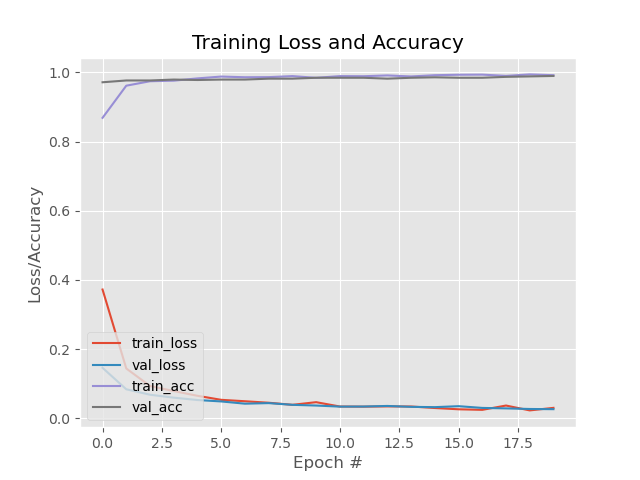
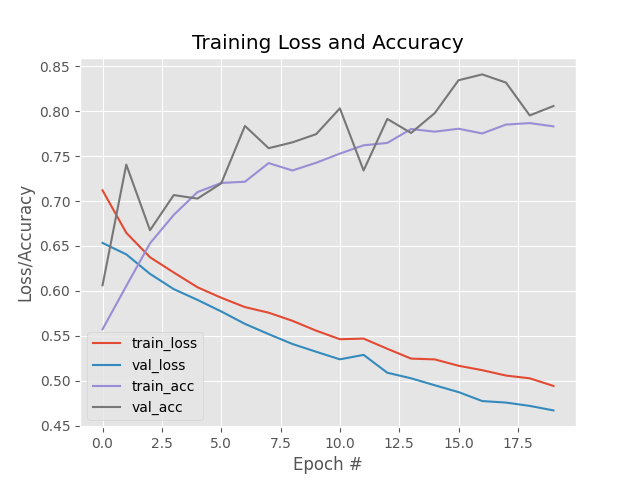
New Resnetv50 Model

diff --git a/inceptionv3.py b/inceptionv3.py
@@ -1,0 +1,106 @@
+from tensorflow.keras.preprocessing.image import ImageDataGenerator
+from tensorflow.keras.applications.inception_v3 import InceptionV3
+from tensorflow.keras.layers import AveragePooling2D
+from tensorflow.keras.layers import Dropout
+from tensorflow.keras.layers import Flatten
+from tensorflow.keras.layers import Dense
+from tensorflow.keras.layers import Input
+from tensorflow.keras.models import Model
+from tensorflow.keras.optimizers import Adam
+from tensorflow.keras.applications.mobilenet_v2 import preprocess_input
+from tensorflow.keras.preprocessing.image import img_to_array
+from tensorflow.keras.preprocessing.image import load_img
+from tensorflow.keras.utils import to_categorical
+from sklearn.preprocessing import LabelBinarizer
+from sklearn.model_selection import train_test_split
+from sklearn.metrics import classification_report
+from imutils import paths
+import matplotlib.pyplot as plt
+import numpy as np
+import os
+
+INIT_LR = 1e-4
+EPOCHS = 20
+BS = 32
+
+DIRECTORY = r"D:\Projects\Mask_detection\dataset"
+CATEGORIES = ["with_mask", "without_mask"]
+
+print("Loading Image from Directory")
+
+data =[]
+labels = []
+
+for category in CATEGORIES:
+    path = os.path.join(DIRECTORY, category)
+    for img in os.listdir(path):
+        img_path = os.path.join(path,img)
+        image = load_img(img_path, target_size=(224,224))
+        image = img_to_array(image)
+        image = preprocess_input(image)
+        data.append(image)
+        labels.append(category)
+        
+lb = LabelBinarizer()
+labels = lb.fit_transform(labels)
+labels = to_categorical(labels)
+
+data = np.array(data, dtype="float32")
+labels = np.array(labels)
+
+(xtrain, xtest, ytrain, ytest) = train_test_split(data, labels, test_size = 0.20, stratify = labels, random_state = 101)
+
+aug = ImageDataGenerator(rotation_range = 20, zoom_range = 0.15, width_shift_range= 0.2, height_shift_range=0.2, shear_range=0.15, horizontal_flip=True, fill_mode="nearest")
+
+baseModel = InceptionV3(weights="imagenet", include_top=False,
+	input_tensor=Input(shape=(224, 224, 3)))
+
+
+headModel = baseModel.output
+headModel = AveragePooling2D(pool_size=(7, 7))(headModel)
+headModel = Flatten(name="flatten")(headModel)
+headModel = Dense(128, activation="relu")(headModel)
+headModel = Dropout(0.5)(headModel)
+headModel = Dense(2, activation="softmax")(headModel)
+
+model = Model(inputs=baseModel.input, outputs=headModel)
+
+for layer in baseModel.layers:
+	layer.trainable = False
+
+print("[INFO] compiling model...")
+opt = Adam(lr=INIT_LR, decay=INIT_LR / EPOCHS)
+model.compile(loss="binary_crossentropy", optimizer=opt,
+	metrics=["accuracy"])
+print("[INFO] training head...")
+H = model.fit(
+	aug.flow(xtrain, ytrain, batch_size=BS),
+	steps_per_epoch=len(xtrain) // BS,
+	validation_data=(xtest, ytest),
+	validation_steps=len(xtest) // BS,
+	epochs=EPOCHS)
+
+print("[INFO] evaluating network...")
+predIdxs = model.predict(xtest, batch_size=BS)
+
+predIdxs = np.argmax(predIdxs, axis=1)
+
+print(classification_report(ytest.argmax(axis=1), predIdxs, target_names=lb.classes_))
+
+#print("[INFO] saving mask detector model...")
+#model.save("mask_detector.model", save_format="h5")
+
+N = EPOCHS
+plt.style.use("ggplot")
+plt.figure()
+plt.plot(np.arange(0, N), H.history["loss"], label="train_loss")
+plt.plot(np.arange(0, N), H.history["val_loss"], label="val_loss")
+plt.plot(np.arange(0, N), H.history["accuracy"], label="train_acc")
+plt.plot(np.arange(0, N), H.history["val_accuracy"], label="val_acc")
+plt.title("Training Loss and Accuracy")
+plt.xlabel("Epoch #")
+plt.ylabel("Loss/Accuracy")
+plt.legend(loc="lower left")
+plt.savefig("plot2.png")
+
+

diff --git a/vgg16.py b/vgg16.py
@@ -1,0 +1,106 @@
+from tensorflow.keras.preprocessing.image import ImageDataGenerator
+from tensorflow.keras.applications.vgg16 import VGG16
+from tensorflow.keras.layers import AveragePooling2D
+from tensorflow.keras.layers import Dropout
+from tensorflow.keras.layers import Flatten
+from tensorflow.keras.layers import Dense
+from tensorflow.keras.layers import Input
+from tensorflow.keras.models import Model
+from tensorflow.keras.optimizers import Adam
+from tensorflow.keras.applications.mobilenet_v2 import preprocess_input
+from tensorflow.keras.preprocessing.image import img_to_array
+from tensorflow.keras.preprocessing.image import load_img
+from tensorflow.keras.utils import to_categorical
+from sklearn.preprocessing import LabelBinarizer
+from sklearn.model_selection import train_test_split
+from sklearn.metrics import classification_report
+from imutils import paths
+import matplotlib.pyplot as plt
+import numpy as np
+import os
+
+INIT_LR = 1e-4
+EPOCHS = 20
+BS = 32
+
+DIRECTORY = r"D:\Projects\Mask_detection\dataset"
+CATEGORIES = ["with_mask", "without_mask"]
+
+print("Loading Image from Directory")
+
+data =[]
+labels = []
+
+for category in CATEGORIES:
+    path = os.path.join(DIRECTORY, category)
+    for img in os.listdir(path):
+        img_path = os.path.join(path,img)
+        image = load_img(img_path, target_size=(224,224))
+        image = img_to_array(image)
+        image = preprocess_input(image)
+        data.append(image)
+        labels.append(category)
+        
+lb = LabelBinarizer()
+labels = lb.fit_transform(labels)
+labels = to_categorical(labels)
+
+data = np.array(data, dtype="float32")
+labels = np.array(labels)
+
+(xtrain, xtest, ytrain, ytest) = train_test_split(data, labels, test_size = 0.20, stratify = labels, random_state = 101)
+
+aug = ImageDataGenerator(rotation_range = 20, zoom_range = 0.15, width_shift_range= 0.2, height_shift_range=0.2, shear_range=0.15, horizontal_flip=True, fill_mode="nearest")
+
+baseModel = VGG16(weights="imagenet", include_top=False,
+	input_tensor=Input(shape=(224, 224, 3)))
+
+
+headModel = baseModel.output
+headModel = AveragePooling2D(pool_size=(7, 7))(headModel)
+headModel = Flatten(name="flatten")(headModel)
+headModel = Dense(128, activation="relu")(headModel)
+headModel = Dropout(0.5)(headModel)
+headModel = Dense(2, activation="softmax")(headModel)
+
+model = Model(inputs=baseModel.input, outputs=headModel)
+
+for layer in baseModel.layers:
+	layer.trainable = False
+
+print("[INFO] compiling model...")
+opt = Adam(lr=INIT_LR, decay=INIT_LR / EPOCHS)
+model.compile(loss="binary_crossentropy", optimizer=opt,
+	metrics=["accuracy"])
+print("[INFO] training head...")
+H = model.fit(
+	aug.flow(xtrain, ytrain, batch_size=BS),
+	steps_per_epoch=len(xtrain) // BS,
+	validation_data=(xtest, ytest),
+	validation_steps=len(xtest) // BS,
+	epochs=EPOCHS)
+
+print("[INFO] evaluating network...")
+predIdxs = model.predict(xtest, batch_size=BS)
+
+predIdxs = np.argmax(predIdxs, axis=1)
+
+print(classification_report(ytest.argmax(axis=1), predIdxs, target_names=lb.classes_))
+
+#print("[INFO] saving mask detector model...")
+#model.save("mask_detector.model", save_format="h5")
+
+N = EPOCHS
+plt.style.use("ggplot")
+plt.figure()
+plt.plot(np.arange(0, N), H.history["loss"], label="train_loss")
+plt.plot(np.arange(0, N), H.history["val_loss"], label="val_loss")
+plt.plot(np.arange(0, N), H.history["accuracy"], label="train_acc")
+plt.plot(np.arange(0, N), H.history["val_accuracy"], label="val_acc")
+plt.title("Training Loss and Accuracy")
+plt.xlabel("Epoch #")
+plt.ylabel("Loss/Accuracy")
+plt.legend(loc="lower left")
+plt.savefig("plot1.png")
+
+

diff --git a/comparativemodel.py b/comparativemodel.py
@@ -1,0 +1,106 @@
+from tensorflow.keras.preprocessing.image import ImageDataGenerator
+from tensorflow.keras.applications import ResNet50
+from tensorflow.keras.layers import AveragePooling2D
+from tensorflow.keras.layers import Dropout
+from tensorflow.keras.layers import Flatten
+from tensorflow.keras.layers import Dense
+from tensorflow.keras.layers import Input
+from tensorflow.keras.models import Model
+from tensorflow.keras.optimizers import Adam
+from tensorflow.keras.applications.mobilenet_v2 import preprocess_input
+from tensorflow.keras.preprocessing.image import img_to_array
+from tensorflow.keras.preprocessing.image import load_img
+from tensorflow.keras.utils import to_categorical
+from sklearn.preprocessing import LabelBinarizer
+from sklearn.model_selection import train_test_split
+from sklearn.metrics import classification_report
+from imutils import paths
+import matplotlib.pyplot as plt
+import numpy as np
+import os
+
+INIT_LR = 1e-4
+EPOCHS = 20
+BS = 32
+
+DIRECTORY = r"D:\Projects\Mask_detection\dataset"
+CATEGORIES = ["with_mask", "without_mask"]
+
+print("Loading Image from Directory")
+
+data =[]
+labels = []
+
+for category in CATEGORIES:
+    path = os.path.join(DIRECTORY, category)
+    for img in os.listdir(path):
+        img_path = os.path.join(path,img)
+        image = load_img(img_path, target_size=(224,224))
+        image = img_to_array(image)
+        image = preprocess_input(image)
+        data.append(image)
+        labels.append(category)
+        
+lb = LabelBinarizer()
+labels = lb.fit_transform(labels)
+labels = to_categorical(labels)
+
+data = np.array(data, dtype="float32")
+labels = np.array(labels)
+
+(xtrain, xtest, ytrain, ytest) = train_test_split(data, labels, test_size = 0.20, stratify = labels, random_state = 101)
+
+aug = ImageDataGenerator(rotation_range = 20, zoom_range = 0.15, width_shift_range= 0.2, height_shift_range=0.2, shear_range=0.15, horizontal_flip=True, fill_mode="nearest")
+
+baseModel = ResNet50(weights="imagenet", include_top=False,
+	input_tensor=Input(shape=(224, 224, 3)))
+
+
+headModel = baseModel.output
+headModel = AveragePooling2D(pool_size=(7, 7))(headModel)
+headModel = Flatten(name="flatten")(headModel)
+headModel = Dense(128, activation="relu")(headModel)
+headModel = Dropout(0.5)(headModel)
+headModel = Dense(2, activation="softmax")(headModel)
+
+model = Model(inputs=baseModel.input, outputs=headModel)
+
+for layer in baseModel.layers:
+	layer.trainable = False
+
+print("[INFO] compiling model...")
+opt = Adam(lr=INIT_LR, decay=INIT_LR / EPOCHS)
+model.compile(loss="binary_crossentropy", optimizer=opt,
+	metrics=["accuracy"])
+print("[INFO] training head...")
+H = model.fit(
+	aug.flow(xtrain, ytrain, batch_size=BS),
+	steps_per_epoch=len(xtrain) // BS,
+	validation_data=(xtest, ytest),
+	validation_steps=len(xtest) // BS,
+	epochs=EPOCHS)
+
+print("[INFO] evaluating network...")
+predIdxs = model.predict(xtest, batch_size=BS)
+
+predIdxs = np.argmax(predIdxs, axis=1)
+
+print(classification_report(ytest.argmax(axis=1), predIdxs, target_names=lb.classes_))
+
+#print("[INFO] saving mask detector model...")
+#model.save("mask_detector.model", save_format="h5")
+
+N = EPOCHS
+plt.style.use("ggplot")
+plt.figure()
+plt.plot(np.arange(0, N), H.history["loss"], label="train_loss")
+plt.plot(np.arange(0, N), H.history["val_loss"], label="val_loss")
+plt.plot(np.arange(0, N), H.history["accuracy"], label="train_acc")
+plt.plot(np.arange(0, N), H.history["val_accuracy"], label="val_acc")
+plt.title("Training Loss and Accuracy")
+plt.xlabel("Epoch #")
+plt.ylabel("Loss/Accuracy")
+plt.legend(loc="lower left")
+plt.savefig("plot.png")
+
+
